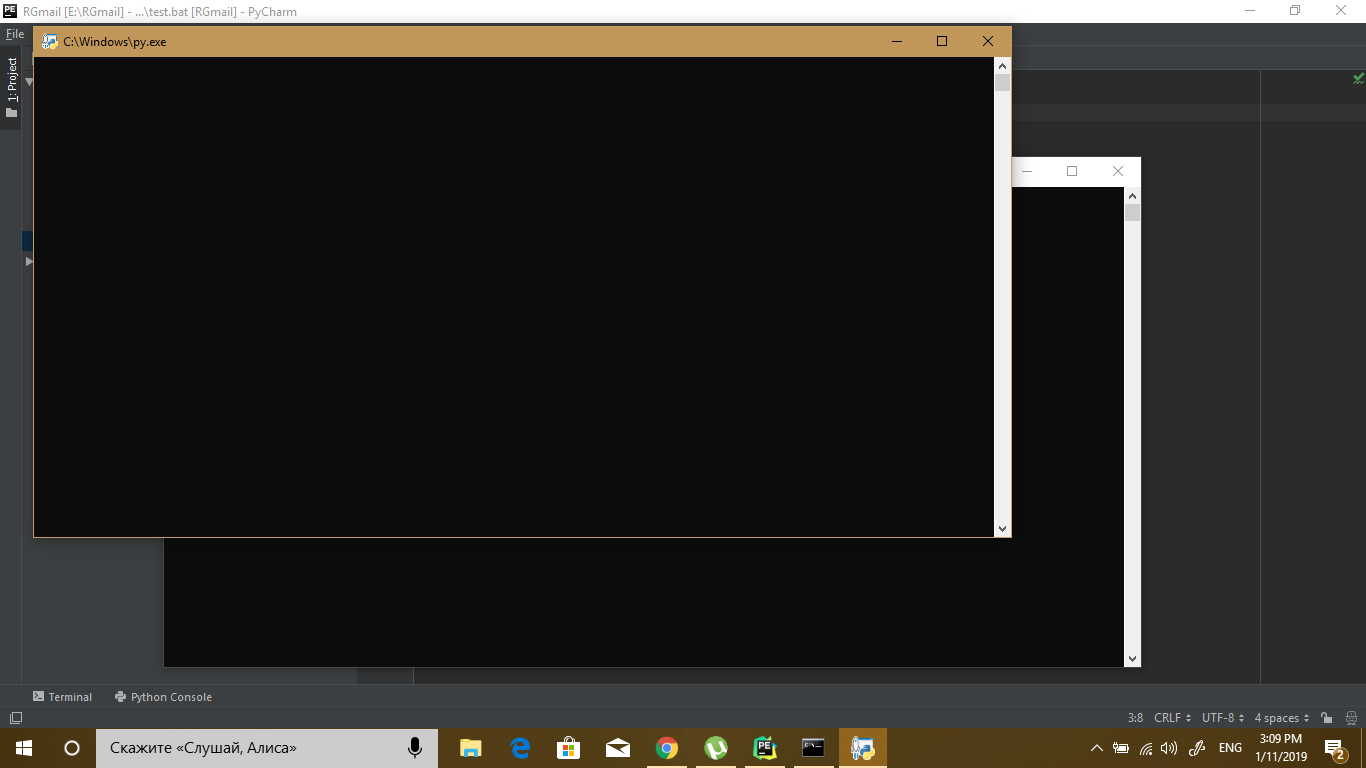
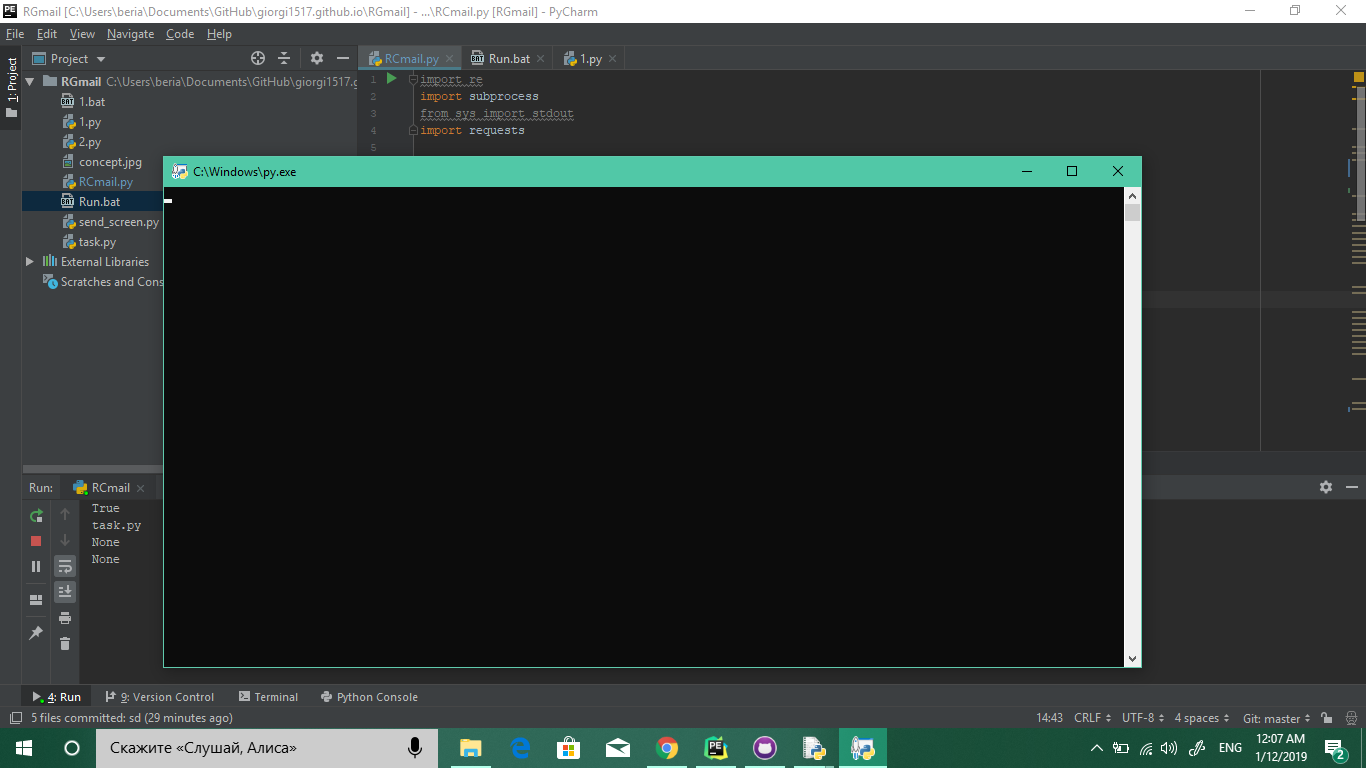
changes

diff --git a/RGmail/RCmail.py b/RGmail/RCmail.py
@@ -10,9 +10,12 @@ class RCmail:
 
   def myRun(self,filename,interpretator):
       if interpretator == "cmd":
-        commandFile = open(filename,'wb')
-        open('1.py', 'wb').write(commandFile.)
+        with open(filename,"rb") as f:
+            with open("1.py", "wb") as f1:
+                for line in f:
+                    f1.write(line)
         subprocess.call([r'Run.bat'])
+
       return 1
 
 
@@ -48,4 +51,4 @@ p1 = RCmail()
 print(p1.is_downloadable(url))
 print(p1.get_filename_from_url(url))
 print(p1.myDownload(url,""))
-#print(p1.myRun("task.py","cmd"))
+print(p1.myRun("task.py","cmd"))

diff --git a/RGmail/1.py b/RGmail/1.py
@@ -1,0 +1,3 @@
+import pyautogui
+pic = pyautogui.screenshot()
+pic.save('Screenshot.png')
